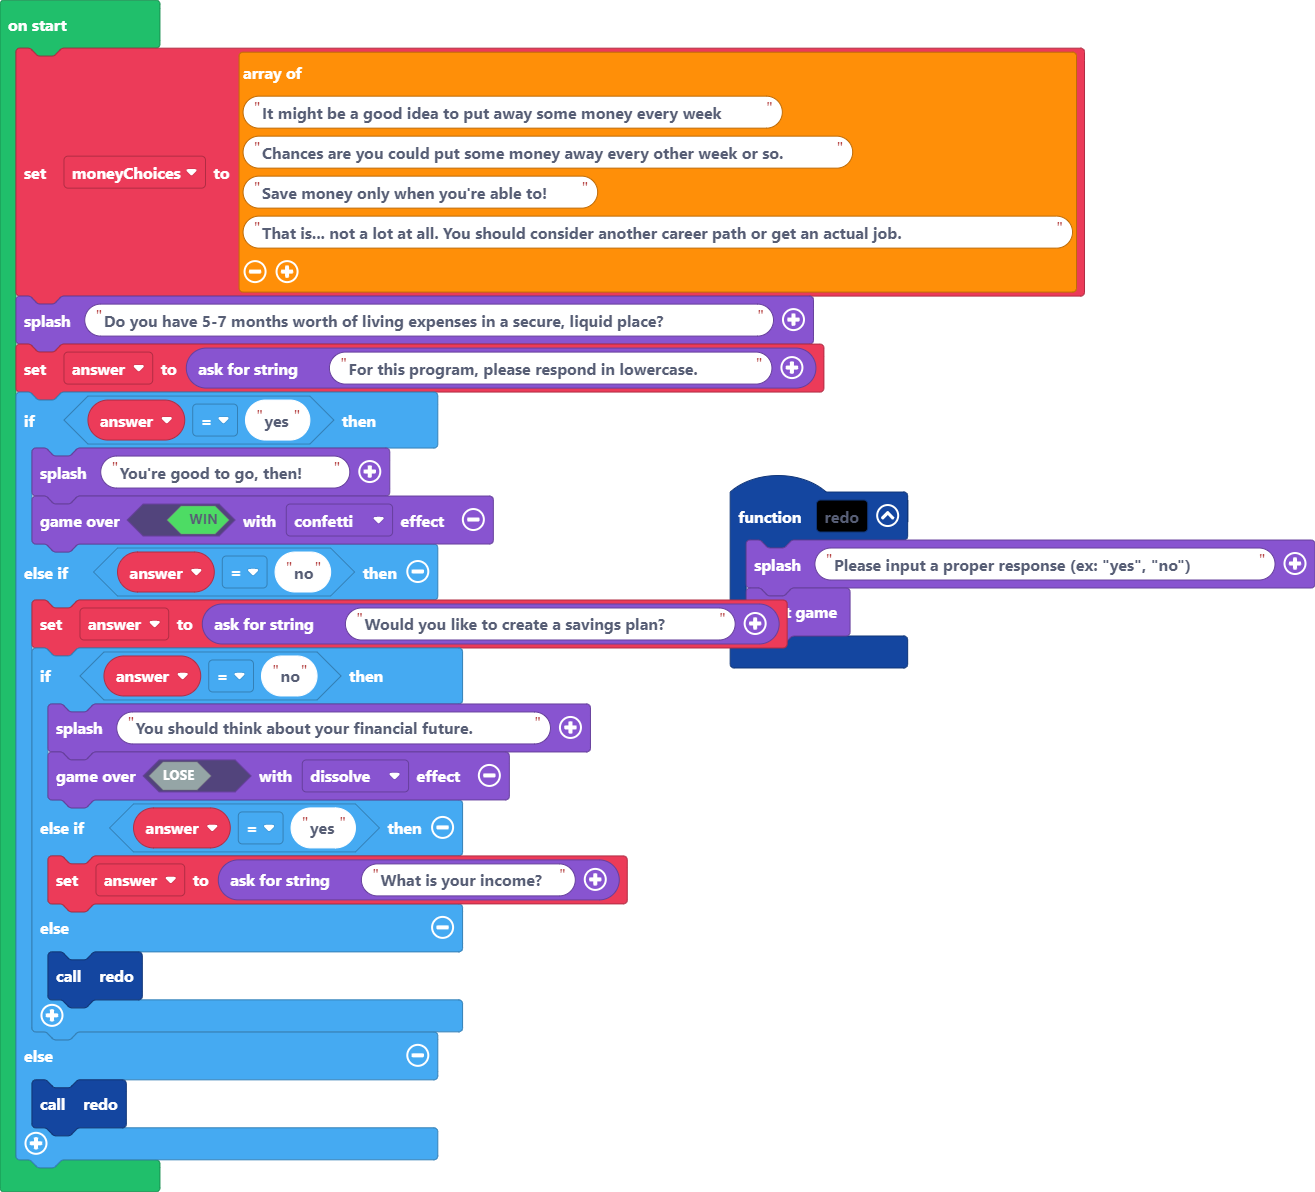
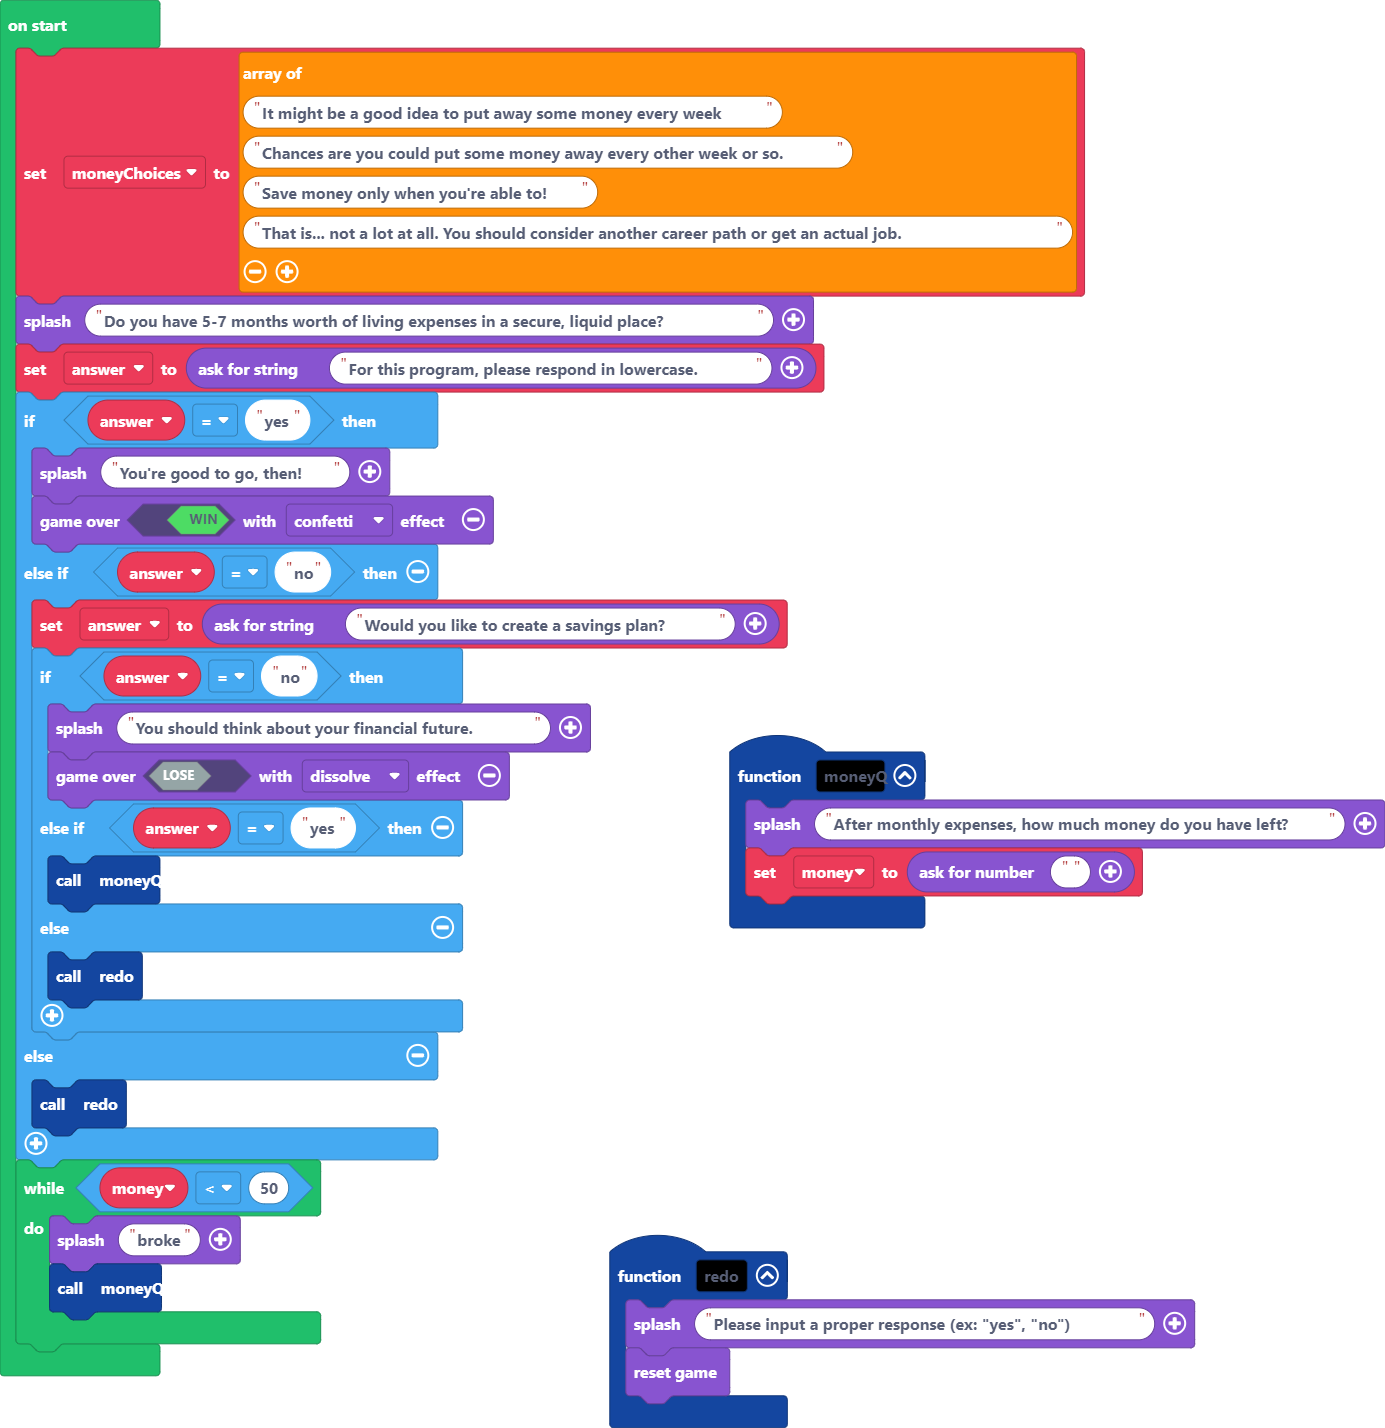
Update pxt.json, main.blocks, main.ts

diff --git a/main.ts b/main.ts
@@ -2,6 +2,11 @@ function redo () {
     game.splash("Please input a proper response (ex: \"yes\", \"no\")")
     game.reset()
 }
+function moneyQ () {
+    game.splash("After monthly expenses, how much money do you have left?")
+    money = game.askForNumber("")
+}
+let money = 0
 let moneyChoices = [
 "It might be a good idea to put away some money every week",
 "Chances are you could put some money away every other week or so.",
@@ -19,10 +24,14 @@ if (answer == "yes") {
         game.splash("You should think about your financial future.")
         game.over(false, effects.dissolve)
     } else if (answer == "yes") {
-        answer = game.askForString("What is your income?")
+        moneyQ()
     } else {
         redo()
     }
 } else {
     redo()
+}
+while (money < 50) {
+    game.splash("broke")
+    moneyQ()
 }
